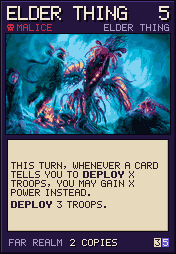
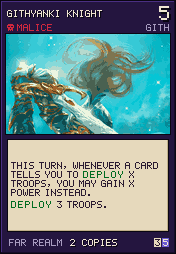
Stage NE-55: swap Far Realm knight and elder thing identities

diff --git a/Codex outputs/far_ne55.md b/Codex outputs/far_ne55.md
@@ -1,0 +1,7 @@
+# Stage NE-55: swap Far Realm creature identities
+
+Owner-requested swap: Elder Thing moves to 50000 (cost 6, 1 copy), and Githyanki Knight moves to 50014 (cost 5, 2 copies). Names, races, original art crops and owner-adjusted miniature crops follow each creature. Costs, aspects, VP, copy counts and English/Russian abilities stay on their original card slots. The UNDERTITAN decision title now says Githyanki Knight; its mechanics are unchanged. Neither creature has a baked HS recipe in RECIPES; the planned Lothraxion entry in CARD_MAP follows Githyanki Knight to 50014.
+
+Validation: 2270 core checks passed, 0 failed; localization for both cards: 2263 checks, 0 failed. Data invariants and unrelated owner miniature coordinates verified. English/Russian faces and miniatures visually reviewed.
+
+Additional replacements remain proposals awaiting the owner's art selection. Red Slaad will move from 50005 to 50012 (Thri-kreen Psion's slot) together with a chosen unique replacement for 50005. Marauder 50004 and Zerth 50003 also await choices. Qunbraxel, Zargon and Hazlik from the preceding gallery have not been approved or applied. Rejected: Ivan Dilisnya, Ivana Boritsi and Vladeska Drakov.

diff --git a/hs_unity/CARD_MAP.md b/hs_unity/CARD_MAP.md
@@ -274,7 +274,7 @@ S'theno, Neptulon TID, Neeru, Al'Akir NEW1 заменены свежими).
 
 | Карта (id) | Легендарка HS (id) | Префаб эффекта | Почему |
 |---|---|---|---|
-| Githyanki Knight (50000) | Lothraxion the Redeemed (DMF_240) | `DMFFX_Lothraxion_CustomSummon.prefab` | астральный рыцарь |
+| Githyanki Knight (50014) | Lothraxion the Redeemed (DMF_240) | `DMFFX_Lothraxion_CustomSummon.prefab` | астральный рыцарь |
 | Greater Star Spawn Emissary (50001) | Sargeras, the Destroyer (TTN_960) | `TTNFX_SargerasTheDestroyer_CustomSummon.prefab` | СДЕЛАНО (HsFx-79; владелец выбрал в HsBrowser 2026-10-27) |
 | Froghemoth Elder (50002) | The Exodar (GDB_120) | `GDBFX_TheExodar_CustomSummon.prefab` | СДЕЛАНО (HsFx-79; владелец выбрал в HsBrowser 2026-10-27) |
 | Githzerai Zerth (50003) | The Eternal Hold (TIME_446) | `TIME_EternalHold_CustomSummon.prefab` | СДЕЛАНО (HsFx-79; владелец выбрал в HsBrowser 2026-10-27) |
